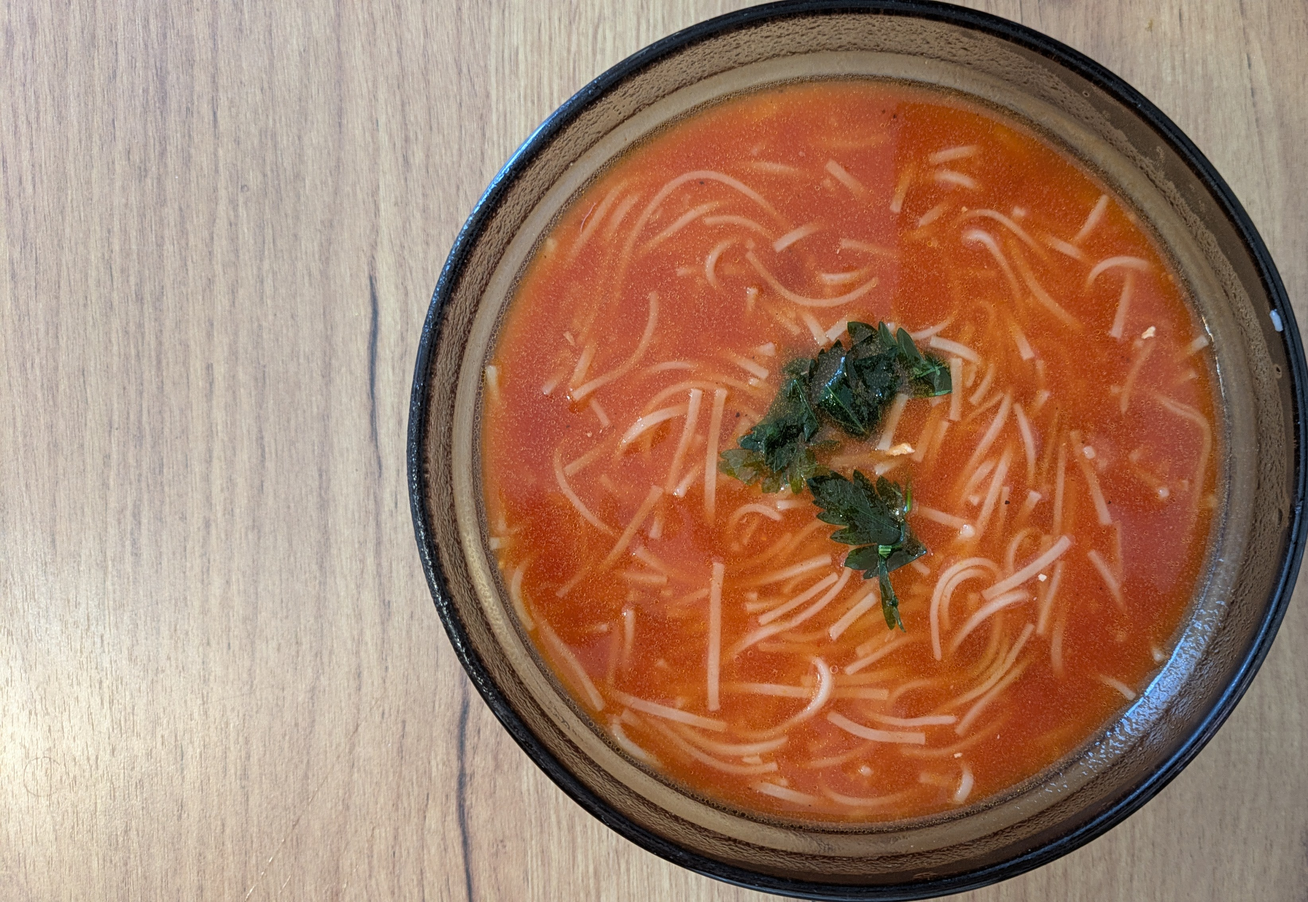
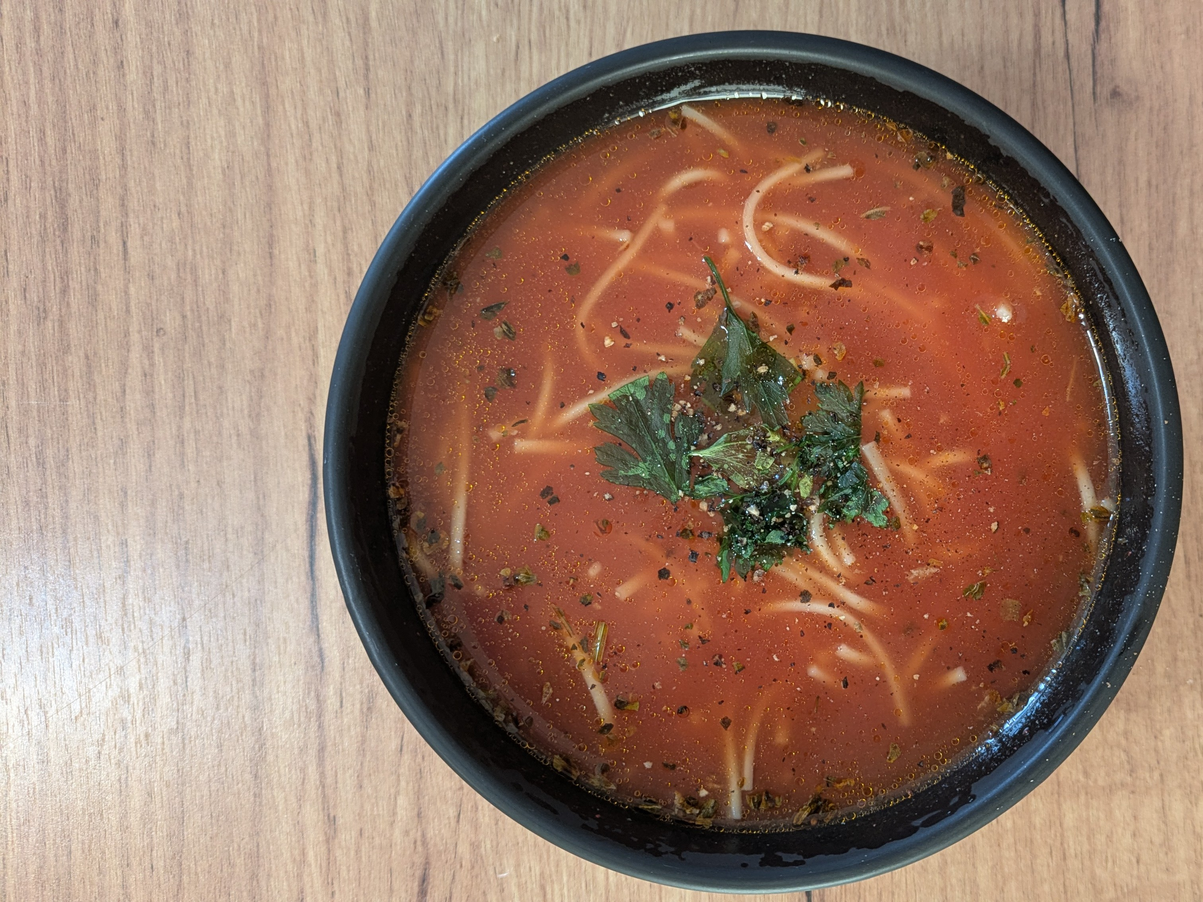
update-recipes

diff --git a/src/data/soup/pomidorowa-zabielana.ts b/src/data/soup/pomidorowa-zabielana.ts
@@ -1,0 +1,60 @@
+import { iDIR } from "../../ingredients/ingDairy";
+import { iFAT } from "../../ingredients/ingFat";
+import { iGRN } from "../../ingredients/ingGrain";
+import { iJAR } from "../../ingredients/ingJar";
+import { iLIQ } from "../../ingredients/ingLiquid";
+import { iOTH } from "../../ingredients/ingOther";
+import { iSPC } from "../../ingredients/ingSpice";
+import type { Recipe } from "../../types";
+
+const portions = 3;
+const pomidorowaZabielana: Recipe = {
+  name: "Pomidorowa Zabielana",
+  type: "soup",
+  images: ["pomidorowa-zabielana"],
+  time: 15,
+  portions: portions,
+  taste: 3,
+  difficulty: 2,
+  ingredients: [
+    {
+      title: "",
+      items: [
+        { ing: iGRN.bow_tie_pasta, amount: portions * 50, kw: true },
+        { ing: iLIQ.rosol, amount: 700, kw: true },
+        { ing: iJAR.tomato_paste, amount: 2, unit: "lzi", kw: true },
+        { ing: iLIQ.water, amount: 100 },
+        { ing: iFAT.butter, amount: 1, unit: "lz" },
+        {
+          type: "choice",
+          options: [
+            { ing: iDIR.cream_30, amount: 80 },
+            { ing: iDIR.cream_18, amount: 80 },
+          ],
+          selected: 0,
+        },
+        { ing: iOTH.sugar, amount: 2, unit: "lzi" },
+        { ing: iLIQ.maggi },
+        { ing: iSPC.black_pepper },
+      ],
+    },
+  ],
+  steps: [
+    {
+      title: "",
+      steps: [
+        "Ugotuj makaron kokardki osobno według instrukcji na opakowaniu.",
+        "Zagotuj rosół w garnku.",
+        "Rozmieszaj koncentrat pomidorowy w 100 ml wody, a następnie dodaj do rosołu i dokładnie wymieszaj.",
+        "Dodaj łyżkę masła i gotuj kilka minut na małym ogniu.",
+        "Dodaj cukier oraz śmietanę 30% i wymieszaj.",
+        "Jeśli zupa jest za gęsta, dolej trochę rosołu.",
+        "Dopraw do smaku solą i pieprzem.",
+        "Na koniec dodaj posiekaną pietruszkę lub koper, odrobinę bazylii oraz ugotowany makaron.",
+      ],
+    },
+  ],
+  keyWords: ["zupa", "makaron"],
+};
+
+export default pomidorowaZabielana;

diff --git a/src/data/dinner/pstrag-z-piekarinka.ts b/src/data/dinner/pstrag-z-piekarinka.ts
@@ -1,0 +1,55 @@
+import { dinnerSides } from "../../dinnerSides";
+import { iFAT } from "../../ingredients/ingFat";
+import { iFSH } from "../../ingredients/ingFish";
+import { iFRT } from "../../ingredients/ingFruit";
+import { iSPC } from "../../ingredients/ingSpice";
+import { iVEG } from "../../ingredients/ingVegetable";
+import type { Recipe } from "../../types";
+
+const portions = 2;
+const pstragZPiekarnika: Recipe = {
+  name: "Pstrąg z Piekarnika",
+  type: "dinner",
+  images: ["pstrag-z-piekarnika"],
+  time: 35,
+  portions: portions,
+  taste: 3,
+  difficulty: 2,
+  ingredients: [
+    {
+      title: "",
+      items: [
+        { ing: iFSH.rainbow_trout, amount: 2, unit: "szt", kw: true },
+        { ing: iFAT.butter, amount: 2, unit: "lzi" },
+        { ing: iVEG.garlic, amount: 2, unit: "zbk" },
+        { ing: iFRT.lemon, amount: 2, unit: "plas" },
+        { ing: iSPC.fish_seasoning, amount: 1, unit: "lz" },
+      ],
+    },
+  ],
+  extrasMain: {
+    options: [dinnerSides("oven-potatoes-boats", portions)],
+    selected: 0,
+  },
+  extrasVeg: {
+    options: [dinnerSides("pickled-cucumber", portions)],
+    selected: 0,
+  },
+  steps: [
+    {
+      title: "",
+      steps: [
+        "Piekarnik rozgrzej do 200°C.",
+        "Ryby oczyść, umyj i dokładnie osusz ręcznikiem papierowym.",
+        "Czosnek przeciśnij przez praskę i dokładnie natrzyj pstrągi z zewnątrz oraz wewnątrz.",
+        "Oprósz ryby przyprawą do ryb.",
+        "Do środka każdej ryby włóż po kawałku masła.",
+        "Ułóż pstrągi w naczyniu żaroodpornym lub na blasze wyłożonej papierem do pieczenia, a na wierzchu każdej ryby połóż po plastrze cytryny.",
+        "Piecz przez około 20-25 minut, aż mięso będzie w pełni upieczone i łatwo odchodziło od ości.",
+      ],
+    },
+  ],
+  keyWords: ["ryba", "pieczone", "ziemniaki"],
+};
+
+export default pstragZPiekarnika;

diff --git a/src/data/soup/pomidorowa.ts b/src/data/soup/pomidorowa.ts
@@ -1,29 +1,27 @@
-import { iDIR } from "../../ingredients/ingDairy";
-import { iFAT } from "../../ingredients/ingFat";
+import { iGRN } from "../../ingredients/ingGrain";
 import { iHRB } from "../../ingredients/ingHerb";
 import { iJAR } from "../../ingredients/ingJar";
 import { iLIQ } from "../../ingredients/ingLiquid";
 import { iSPC } from "../../ingredients/ingSpice";
 import type { Recipe } from "../../types";
 
+const portions = 3;
 const pomidorowa: Recipe = {
   name: "Pomidorowa",
   type: "soup",
-  images: ["pomidorowa", "pomidorowa-2"],
+  images: ["pomidorowa", "pomidorowa-2", "pomidorowa-3"],
   time: 15,
-  portions: 4,
+  portions: portions,
   taste: 4,
   difficulty: 2,
   ingredients: [
     {
       title: "",
       items: [
+        { ing: iGRN.thin_pasta, amount: portions * 50, kw: true },
         { ing: iLIQ.rosol, amount: 700, kw: true },
         { ing: iJAR.tomato_puree, amount: 200, kw: true },
-        { ing: iFAT.butter, amount: 1, unit: "lz" },
-        { ing: iDIR.cream_30, amount: 80 },
         { ing: iHRB.parsley, amount: 10 },
-        { ing: iHRB.dill },
         { ing: iHRB.basil },
         { ing: iSPC.black_pepper },
         { ing: iSPC.salt },
@@ -34,13 +32,13 @@ const pomidorowa: Recipe = {
     {
       title: "",
       steps: [
+        "Ugotuj makaron nitki osobno według instrukcji na opakowaniu.",
         "Zagotuj rosół w garnku.",
         "Dodaj przecier pomidorowy i dokładnie wymieszaj.",
         "Dodaj łyżkę masła i gotuj kilka minut na małym ogniu.",
-        "Dodaj śmietanę 30% i wymieszaj.",
         "Jeśli zupa jest za gęsta, dolej trochę rosołu.",
         "Dopraw do smaku solą i pieprzem.",
-        "Na koniec dodaj posiekaną pietruszkę lub koper oraz odrobinę bazylii.",
+        "Na koniec dodaj posiekaną pietruszkę lub koper oraz odrobinę bazylii i ugotowany makaron.",
       ],
     },
   ],

diff --git a/src/ingredients/ingFish.ts b/src/ingredients/ingFish.ts
@@ -17,6 +17,8 @@ type IngId =
   | "halibut"
   | "panga"
   | "carp"
+  | "rainbow_trout"
+  | "dorada"
   | "cod_fillet"
   | "salmon_fillet"
   | "rainbow_trout_fillet"
@@ -82,6 +84,32 @@ export const iFSH: Record<IngId, IngredientItem> = {
       szt: 1000,
     },
     nutrientsPer100g: [5, 3, 20],
+  },
+
+  rainbow_trout: {
+    name: "Pstrąg tęczowy",
+    type: "fsh",
+    color: "#FF8A65",
+    kcalPer100g: 141,
+    unitWeights: {
+      szt: 350,
+      opak: 700,
+    },
+    nutrientsPer100g: [6.5, 0, 19.5],
+    price: 36.9,
+  },
+
+  dorada: {
+    name: "Dorada",
+    type: "fsh",
+    color: "#FFB74D",
+    kcalPer100g: 115,
+    unitWeights: {
+      szt: 400,
+      opak: 800,
+    },
+    nutrientsPer100g: [3.5, 0, 20],
+    price: 54.9,
   },
 
   cod_fillet: {

diff --git a/src/data/dinner/pstrag-teczowy-z-piekarnika.ts b/src/data/dinner/pstrag-teczowy-z-piekarnika.ts
@@ -6,10 +6,10 @@ import { iSPC } from "../../ingredients/ingSpice";
 import type { Recipe } from "../../types";
 
 const portions = 3;
-const pstragZPiekarnika: Recipe = {
-  name: "Pstrąg z Piekarnika",
+const pstragTeczowyZPiekarnika: Recipe = {
+  name: "Pstrąg Tęczowy z Piekarnika",
   type: "dinner",
-  images: ["pstrag-z-piekarnika"],
+  images: ["pstrag-teczowy-z-piekarnika"],
   time: 30,
   portions: portions,
   taste: 5,
@@ -49,4 +49,4 @@ const pstragZPiekarnika: Recipe = {
   keyWords: ["ryba", "ziemniaki", "pieczone"],
 };
 
-export default pstragZPiekarnika;
+export default pstragTeczowyZPiekarnika;

diff --git a/src/data/dinner/spaghetti-carbonara-fix.ts b/src/data/dinner/spaghetti-carbonara-fix.ts
@@ -10,7 +10,11 @@ const spaghettiCarbonaraFix: Recipe = {
   name: "Spaghetti Carbonara",
   type: "dinner",
   country: "ITA",
-  images: ["spaghetti-carbonara-fix", "spaghetti-carbonara-fix-2"],
+  images: [
+    "spaghetti-carbonara-fix",
+    "spaghetti-carbonara-fix-2",
+    "spaghetti-carbonara-fix-3",
+  ],
   time: 20,
   portions: portions,
   taste: 2,

diff --git a/src/ingredients/ingJAR.ts b/src/ingredients/ingJAR.ts
@@ -662,6 +662,7 @@ export const iJAR: Record<IngId, IngredientItem> = {
       szt: 25,
     },
     nutrientsPer100g: [7, 30, 9],
+    price: 18.7,
   },
 
   pierogi_ruskie: {
@@ -674,6 +675,7 @@ export const iJAR: Record<IngId, IngredientItem> = {
     unitWeights: {
       szt: 25,
     },
+    price: 18.7,
   },
 
   pierogi_spinach: {

diff --git a/src/data/dinner/spaghetti-bolognese-fix.ts b/src/data/dinner/spaghetti-bolognese-fix.ts
@@ -11,8 +11,7 @@ const spaghettiBologneseFix: Recipe = {
   name: "Spaghetti Bolognese",
   type: "dinner",
   country: "ITA",
-  // images: ["spaghetti-bolognese-fix"],
-  images: [""],
+  images: ["spaghetti-bolognese-fix", "spaghetti-bolognese-fix-2"],
   time: 30,
   portions: portions,
   taste: 5,

diff --git a/src/data/dinner/losos-z-piekarnika.ts b/src/data/dinner/losos-z-piekarnika.ts
@@ -31,6 +31,7 @@ const lososZPiekarnika: Recipe = {
       dinnerSides("oven-potatoes-boats", portions),
       dinnerSides("oven-potatoes", portions),
       dinnerSides("oven-fries", portions),
+      
     ],
     selected: 0,
   },

diff --git a/src/ingredients/ingGrain.ts b/src/ingredients/ingGrain.ts
@@ -285,7 +285,7 @@ export const iGRN: Record<IngId, IngredientItem> = {
       opak: 500,
     },
     nutrientsPer100g: [1.9, 72, 12],
-    price: 5,
+    price: 6,
     verified: true,
   },
 

diff --git a/src/ingredients/ingDairy.ts b/src/ingredients/ingDairy.ts
@@ -583,6 +583,7 @@ export const iDIR: Record<IngId, IngredientItem> = {
       opak: 500,
     },
     nutrientsPer100g: [27, 0, 26],
+    price: 32,
     verified: true,
   },
 

diff --git a/src/ingredients/ingSnack.ts b/src/ingredients/ingSnack.ts
@@ -174,6 +174,7 @@ export const iSNK: Record<IngId, IngredientItem> = {
       kst: 100,
     },
     nutrientsPer100g: [30, 58, 7],
+    price: 100,
   },
 
   chocolate_dark: {
